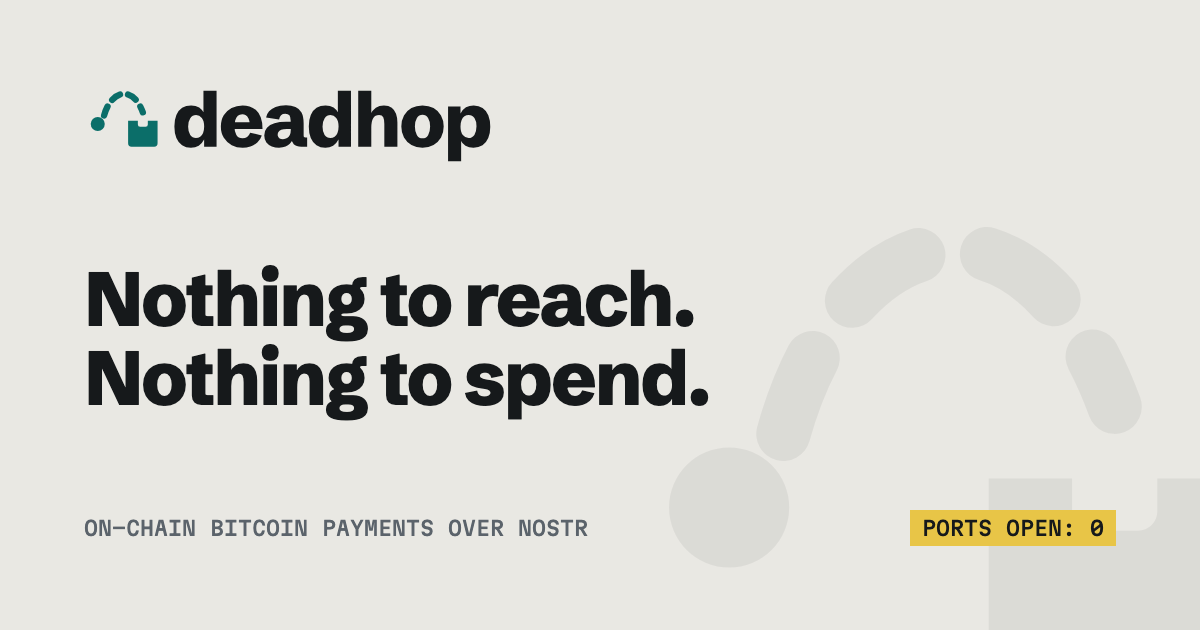
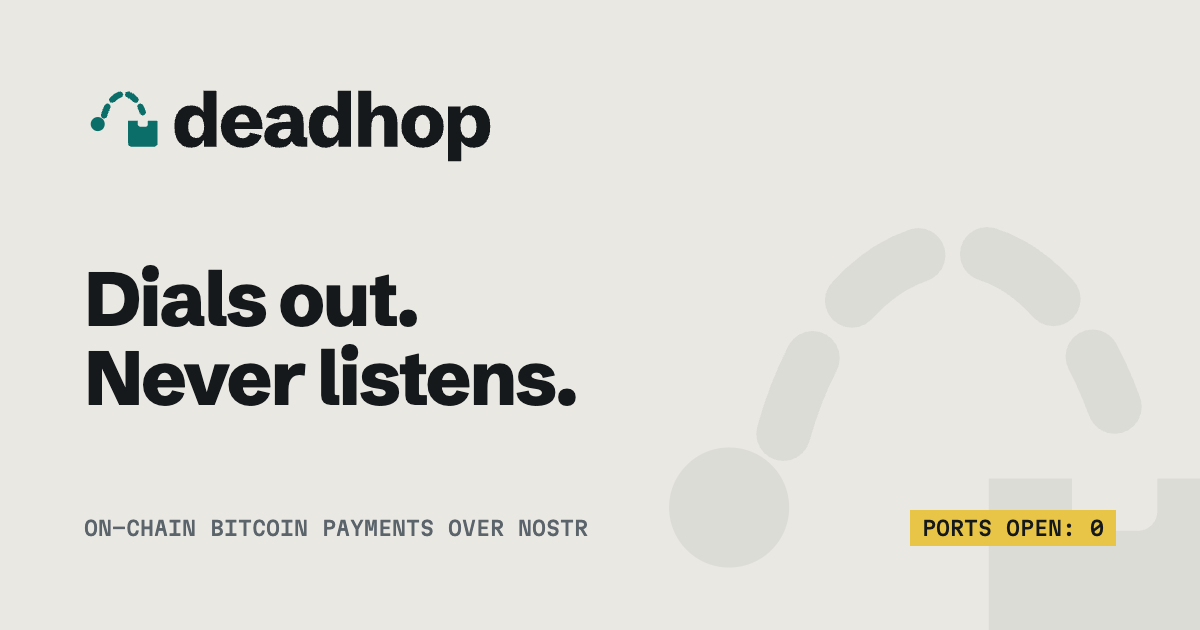
Tagline: "Dials out. Never listens." replaces "Nothing to reach. Nothing to spend."
The old line was wrong on both counts: customers and operators do reach the
service, through relays, and the dashboard shows "Reachable" for the proxy a
few hundred pixels from "Nothing to reach"; and the generated wallet's words
sit on the same host. The new line says what is true: the service only makes
outbound connections and has no listening socket.

Site hero, social card (re-rendered), brand README, dashboard Overview heading
and its test, lnaddr's "No open port at home" / "No spending credential in
public", and the dashboard screenshots retaken.

Changed region(s): [[0.0617, 0.4222, 0.5858, 0.6635]]

diff --git a/tools/og.html b/tools/og.html
@@ -10,4 +10,4 @@ body{margin:0;width:1200px;height:630px;background:#e9e8e3;color:#16191b;positio
 .ft{display:flex;justify-content:space-between;align-items:center;font:500 20px MM;text-transform:uppercase;color:#5b636b}
 .ft b{background:#e8c547;color:#16191b;padding:6px 12px;font-weight:500}
 .ghost{position:absolute;right:-60px;bottom:-110px;width:620px;opacity:.06}
-</style></head><body><img class="ghost" src="../logo/mark.svg"><div class="in"><div class="lk"><img src="../logo/lockup.svg"></div><div class="tl">Nothing to reach. Nothing to&nbsp;spend.</div><div class="ft"><span>On-chain bitcoin payments over Nostr</span><b>ports open: 0</b></div></div></body></html>
+</style></head><body><img class="ghost" src="../logo/mark.svg"><div class="in"><div class="lk"><img src="../logo/lockup.svg"></div><div class="tl">Dials out. Never&nbsp;listens.</div><div class="ft"><span>On-chain bitcoin payments over Nostr</span><b>ports open: 0</b></div></div></body></html>

diff --git a/README.md b/README.md
@@ -1,6 +1,6 @@
 # deadhop brand
 
-**Nothing to reach. Nothing to spend.**
+**Dials out. Never listens.**
 
 deadhop is "dead drop" plus "hop". Customer and merchant never meet: payments are
 left in a drop, and every message travels relay to relay. "Dead" is also literal,
